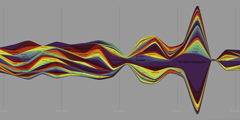
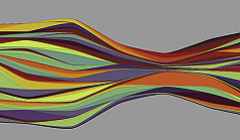
Added a bunch of schemes and general cleanup

diff --git a/src/renderers/d3-wave/Options.ts b/src/renderers/d3-wave/Options.ts
@@ -10,6 +10,10 @@ import BooleanOption from '@/models/options/BooleanOption';
 */
 const LastWaveSchemeImagePath = require('@/assets/lastwave-scheme.png');
 const CarpetSchemeImagePath = require('@/assets/carpet-scheme.png');
+const PastelSchemeImagePath = require('@/assets/pastel-scheme.png');
+const GorgeousSchemeImagePath = require('@/assets/gorgeous-scheme.png');
+const ElegantSchemeImagePath = require('@/assets/elegant-scheme.png');
+const EarthtonesSchemeImagePath = require('@/assets/earthtones-scheme.png');
 
 const DEFAULT_GRAPH_HEIGHT = 600;
 
@@ -23,6 +27,26 @@ const COLOR_SCHEMES = [
     'Carpet',
     'carpet',
     CarpetSchemeImagePath,
+  ),
+  new Image(
+    'Pastel',
+    'pastel',
+    PastelSchemeImagePath,
+  ),
+  new Image(
+    'Gorgeous',
+    'gorgeous',
+    GorgeousSchemeImagePath,
+  ),
+  new Image(
+    'Elegant',
+    'elegant',
+    ElegantSchemeImagePath,
+  ),
+  new Image(
+    'Earthtones',
+    'earthtones',
+    EarthtonesSchemeImagePath,
   ),
 ];
 
@@ -72,7 +96,7 @@ export default [
     true,
   ),
   new BooleanOption(
-    'Add labels',
+    'Add artist/album/tag names',
     'add_labels',
     false,
     true,

diff --git a/src/views/Home.vue b/src/views/Home.vue
@@ -2,9 +2,16 @@
   <div class="home">
     <LastWave>
     </LastWave>
+    <md-snackbar md-position="center" :md-active.sync="showSnackBar" md-persistent>
+      You're using the LastWave v3 beta! <router-link to="/beta"><md-button @click="hideSnackbar" class="md-primary">What's new</md-button></router-link>
+    </md-snackbar>
   </div>
 </template>
-
+<style>
+  .md-snackbar-content {
+    text-align: center;
+  }
+</style>
 <script lang="ts">
 import { Component, Vue } from 'vue-property-decorator';
 import LastWave from '@/components/LastWave.vue'; // @ is an alias to /src
@@ -12,6 +19,20 @@ import LastWave from '@/components/LastWave.vue'; // @ is an alias to /src
 @Component({
   components: {
     LastWave,
+  },
+  data() {
+    let shouldShowSnackbar = true;
+    if (sessionStorage.getItem('hideSnackBar')) {
+      shouldShowSnackbar = false;
+    }
+    return {
+      showSnackBar: shouldShowSnackbar,
+    };
+  },
+  methods: {
+    hideSnackbar() {
+      sessionStorage.setItem('hideSnackBar', 'true');
+    },
   },
 })
 export default class Home extends Vue {}

diff --git a/src/views/Beta.vue b/src/views/Beta.vue
@@ -69,7 +69,7 @@
       <li>Links to the full resolution in the gallery</li>
       <li>Better tagging (last.fm's tags are pretty mediocre)</li>
       <li>Libre.fm integration (or other services)</li>
-      <li>Embed fonts into svg</li>
+      <li>Embed fonts into svg so that more fonts can be supported</li>
     </ul>
   </div>
 </template>

diff --git a/src/components/options/OptionGallery.vue b/src/components/options/OptionGallery.vue
@@ -6,7 +6,7 @@
 </template>
 <style>
   li.vue-select-image__item {
-    margin: 0 12px 12px 0;
+    margin: 0 5px 0 5px;
   }
   .vue-select-image {
     margin-left: auto;
@@ -23,6 +23,7 @@
   .vue-select-image__wrapper {
     display: flex;
     justify-content: center;
+    flex-wrap: wrap;
   }
 </style>
 <script lang="ts">

diff --git a/src/components/LastWave.vue b/src/components/LastWave.vue
@@ -85,6 +85,11 @@
   .scaled svg {
     width: 100%;
   }
+
+  /* https://github.com/vuematerial/vue-material/issues/1794 */
+  .md-datepicker-dialog.md-theme-default {
+    height: 240px !important;
+  }
 </style>
 <script lang="ts">
 import Vue from 'vue'
